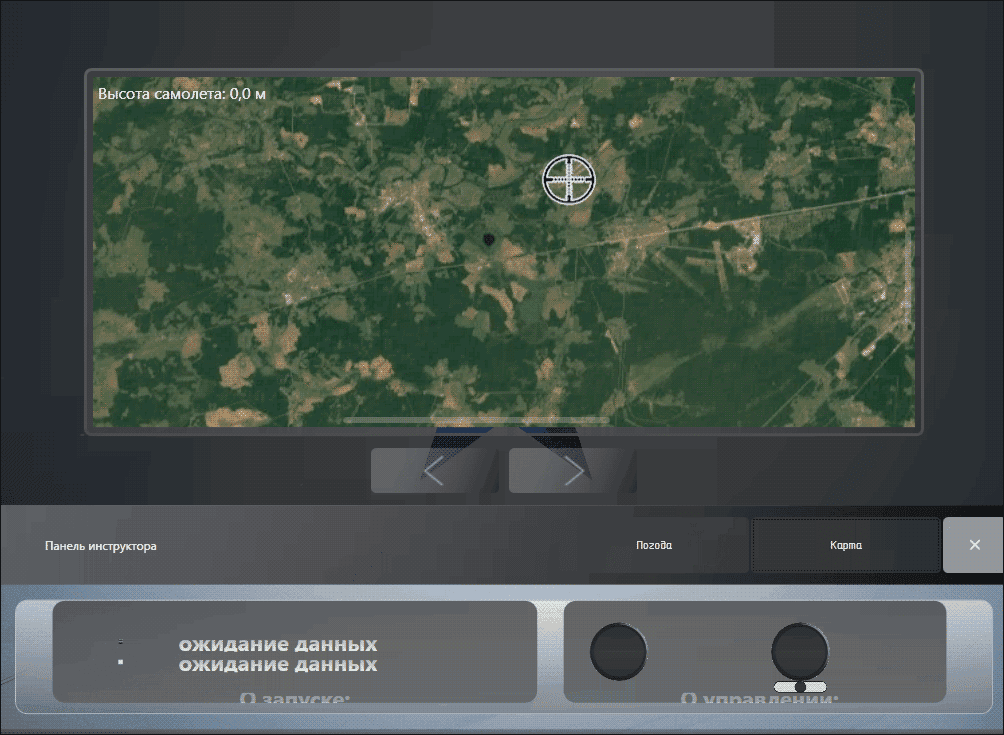
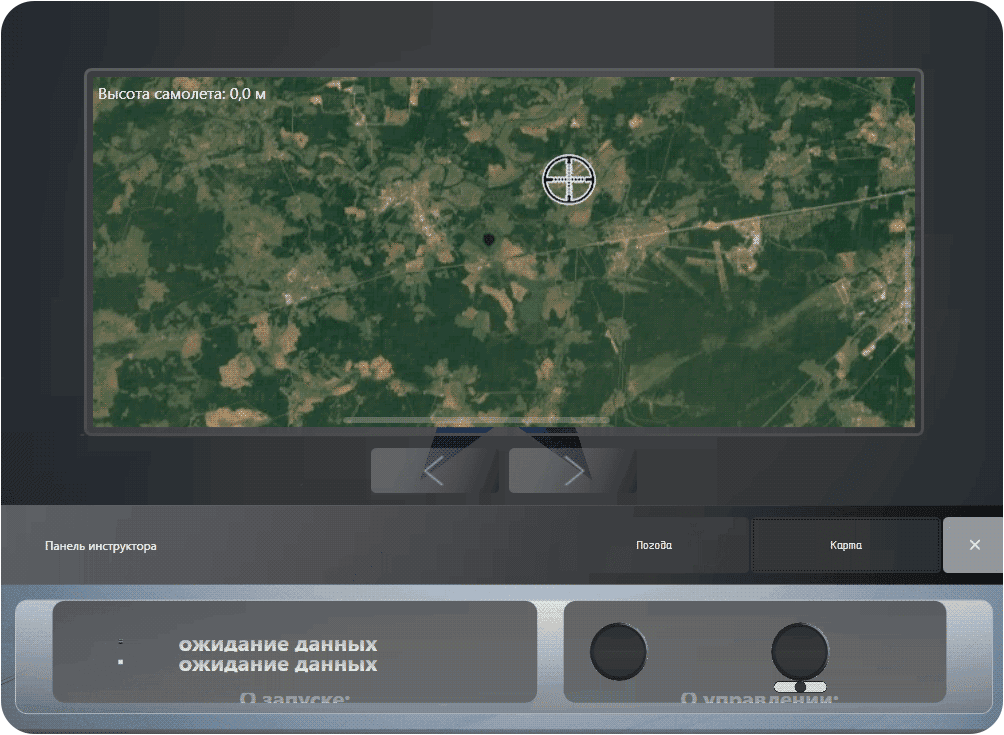
updated readme

Changed region(s): [[0.0, 0.9578, 1.0, 1.0], [0.9572, 0.0, 1.0, 0.0599], [0.0, 0.0, 0.0309, 0.0299]]

diff --git a/README.md b/README.md
@@ -1,10 +1,15 @@
 # Flight Simulator Instructor Shell
 
+| ![Static Badge](https://img.shields.io/badge/communicationnode-communicationnode) | ![GitHub top language](https://img.shields.io/github/languages/top/communicationnode/aciation-simulator-instructor-shell) | ![GitHub](https://img.shields.io/github/license/communicationnode/aciation-simulator-instructor-shell) | ![GitHub Repo stars](https://img.shields.io/github/stars/communicationnode/aciation-simulator-instructor-shell) | ![win](https://badgen.net/badge/icon/Windows,.NET%20Core?icon=windows&label&list=1) |
+| :----------------------------------------------------------: | :----------------------------------------------------------: | :----------------------------------------------------------: | :----------------------------------------------------------: | :----------------------------------------------------------: |
+
+<div align="center"> <img width="94" src="git-res/ico.png"> </div>
+
 > [!NOTE]
 >
 > This program is one of the components of the aviation procedural simulator system designed for flight training.
 
-<div align="left"> <img width="512" src="git-res/preview.png"> </div>
+<div align="center"> <img width="512" src="git-res/preview.png"> </div>
 
 # About Project
 
@@ -20,7 +25,7 @@ The program communicates via a local network between several automated workstati
 
 The instructor controls the student's flight using a specially designed instructor panel.
 
-<div align="left"> <img width="512" src="git-res/real-preview.png"> </div>
+<div align="center"> <img width="512" src="git-res/real-preview.png"> </div>
 
 
 
